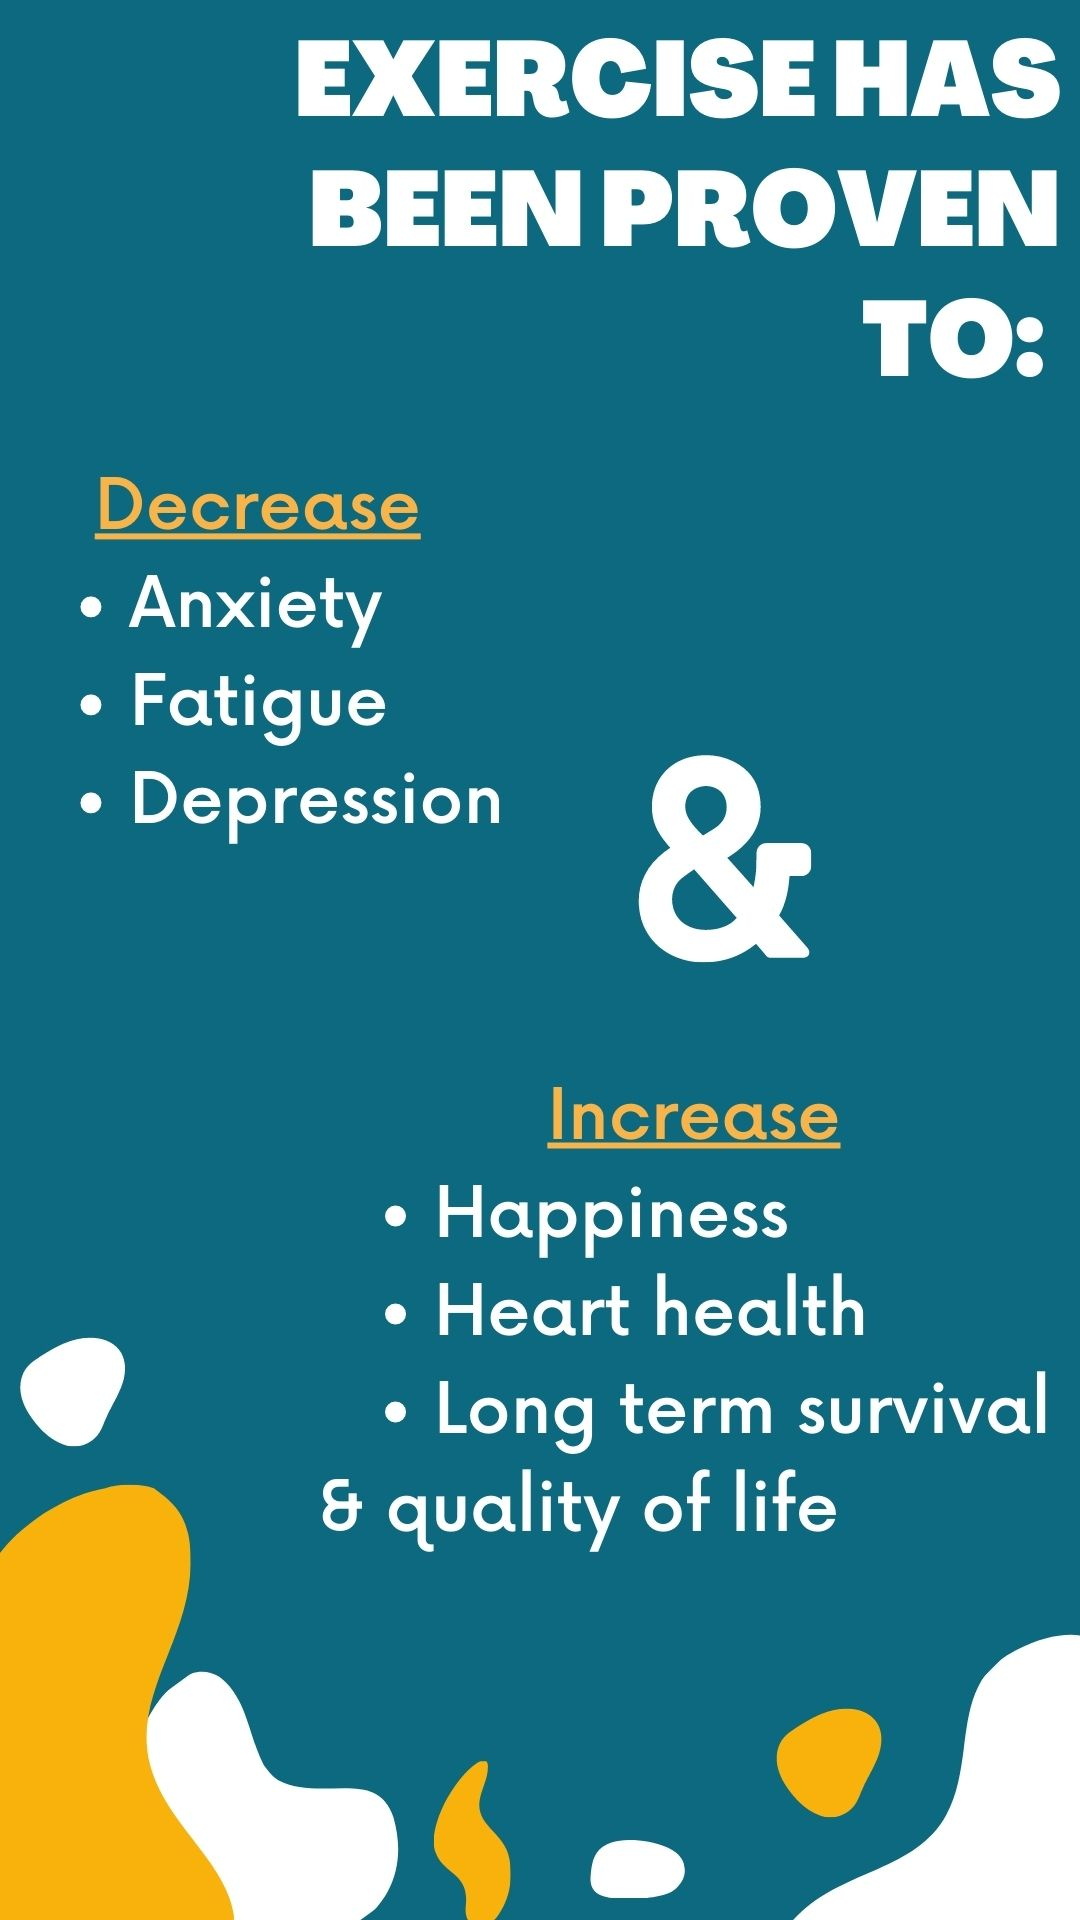
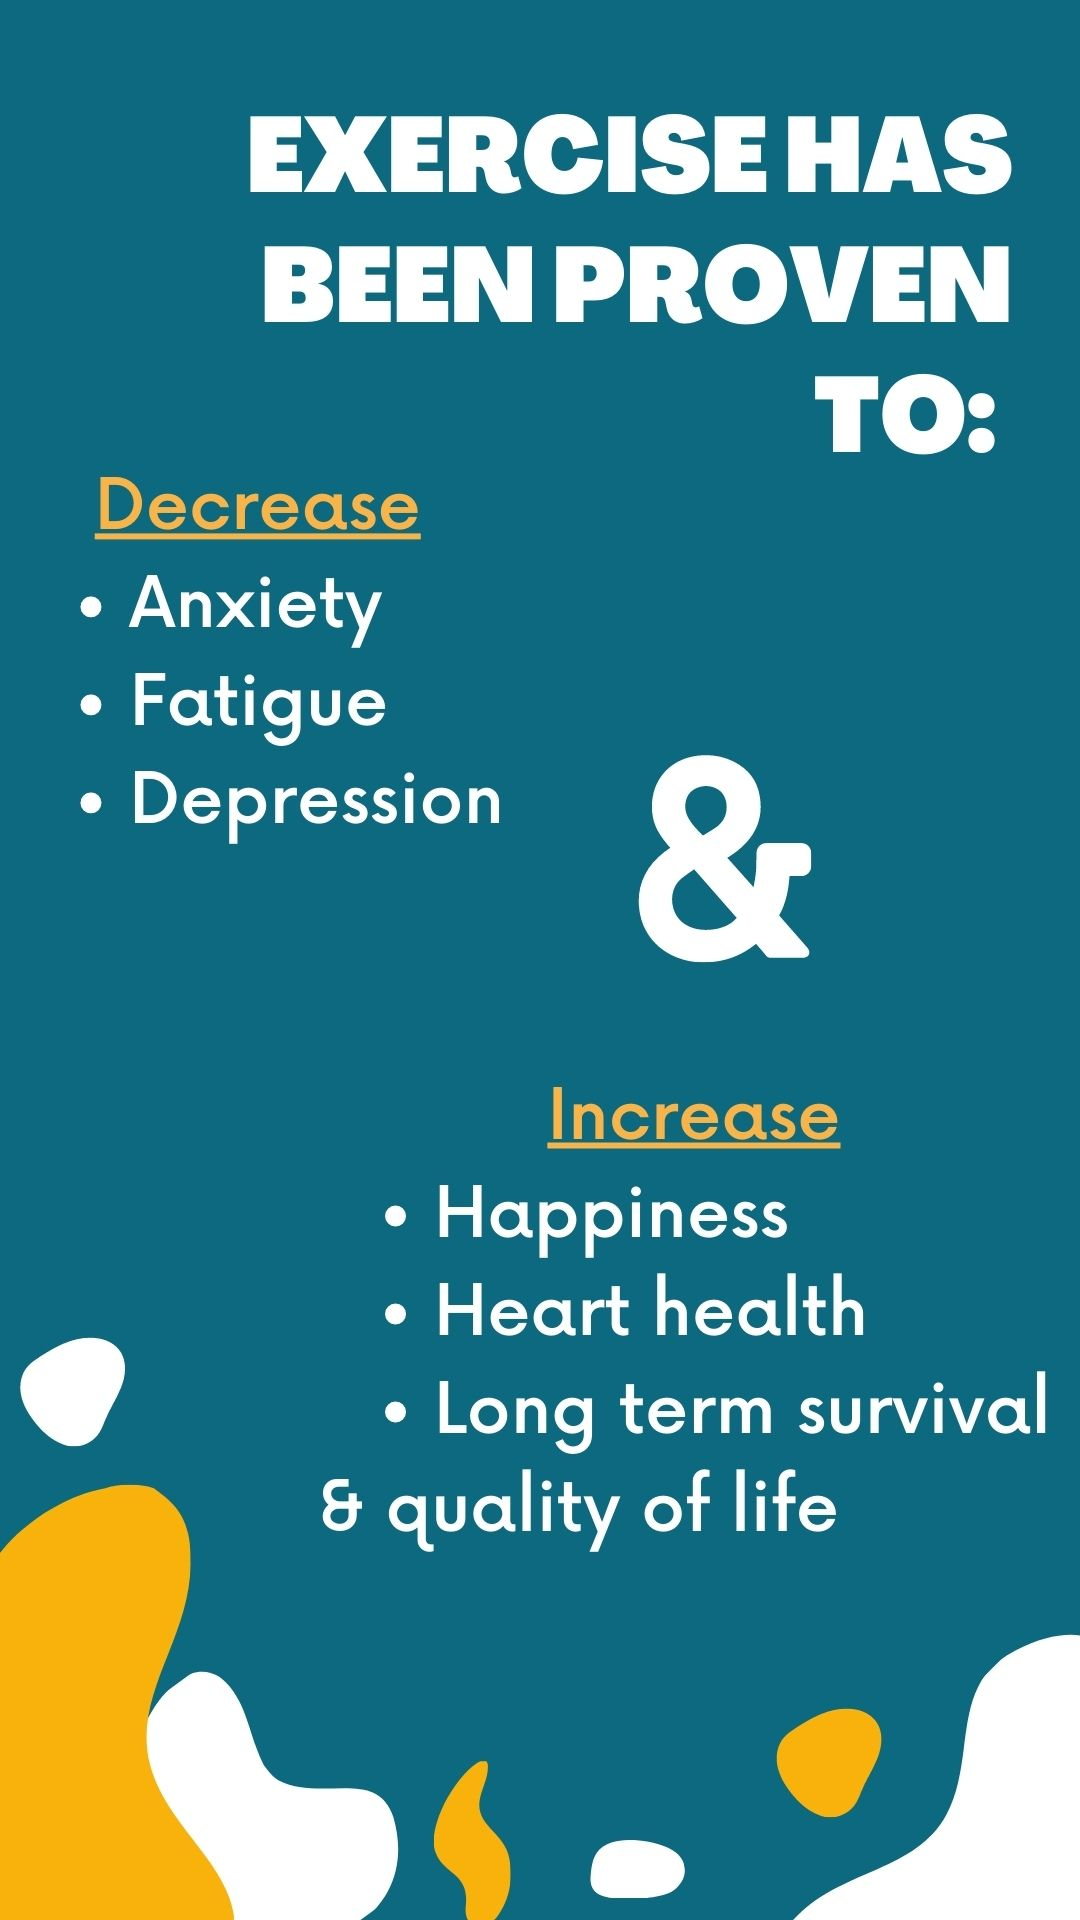
:construction:

Changed region(s): [[0.2139, 0.0, 0.9778, 0.25]]

diff --git a/src/components/Lesson.js b/src/components/Lesson.js
@@ -38,6 +38,7 @@ const BigOleCircle=styled(Circle)`
 const StoryList=styled(FlatList)`
     position:absolute;
     bottom:0;
+    color:white !important;
 `
 function Lesson(props) {
     const navigation = useNavigation(); 
@@ -50,7 +51,7 @@ function Lesson(props) {
         let exerciseStories = []
         let sectionIndex = props.lessonSections[i].index
         let sectionTitle = props.lessonSections[i].title
-        for (let j=props.lessonSections[i].index; j <= props.lessonSections[i+1].index; j++) {
+        for (let j=props.lessonSections[i].index; j < props.lessonSections[i+1].index; j++) {
             let story = {
                 story_id: j,
                 story_image: props.storyImgs[j],
@@ -85,17 +86,18 @@ function Lesson(props) {
                         return <>
                             <InstaStory data={[item]}
                                 duration={10}
-                                unPressedBorderColor={"blue"}
-                                pressedBorderColor={"green"}
+                                unPressedBorderColor={"red"}
+                                pressedBorderColor={"grey"}
                                 avatarSize={80}
                                 onStart={item => console.log('start')}
                                 onClose={item => console.log('close: ')}
+                                textStyle={{color:"white"}}
                                 customSwipeUpComponent={
                                 <View>
-                                    <Text>TEsting</Text>
+                                    <Text>Swipe Up</Text>
                                 </View>
                                 }
-                                style={{marginTop: 100, bottom:0, height:110}}
+                                style={{marginTop: 100, bottom:0, height:110,color:"white !important"}}
                             />
                         </>}}
             />                               

diff --git a/src/components/Banner.js b/src/components/Banner.js
@@ -33,7 +33,7 @@ const BigOleCircle=styled(Circle)`
     max-width:500px; 
     max-height:500px; 
     flex-direction:column;
-    margin-top:-50px;
+    margin-top:-80px;
 ` 
 function Banner(props) {
     const navigation = useNavigation();
@@ -45,20 +45,20 @@ function Banner(props) {
     const HeadTitle=styled(Center)`
         position:relative;
         margin-bottom:0px;
-        top:15px;
-        font-size:30px !important;
-        color:  ${props.fontColor} !important;
+        font-size:80px !important;
+        color: ${props.fontColor} !important;
         padding-top:0px; 
         width:100%;
     `
 //                    <Text color={props.fontColor} fontSize={23} fontFamily="Poppins" textShadow="5px 5px 5px" fontWeight="bold">{props.header}</Text>          
 
 
+
     return (<>
         <Center>
             <BackButton onPress={() => navigation.navigate("Menu")}>Back</BackButton>
             <HeadTitle>
-                {props.headerIcon? <Image style={{ width: 50, height: 50 }} source={props.headerIcon}/> : ''}
+                {props.headerIcon ? <Image style={{ width: 50, minHeight: 50, resizeMode:'contain', marginTop:-25, marginBottom:30 }} source={props.headerIcon}/> : ''}
                 <CurvedText title={props.header} color={props.fontColor} offset={props.titleOffset}/>
             </HeadTitle>
             <Flex>

diff --git a/src/components/CurvedText.js b/src/components/CurvedText.js
@@ -13,11 +13,8 @@ import {
 import Svg, { G, Text, TextPath, TSpan, Circle, Path,Defs } from 'react-native-svg';
 
 
-const CircleText=styled(View)`
-    font-size: 20px;
-    margin-top:10px;
-    text-align:center !important;
-    width:75%;
+const BigText=styled(Text)`
+    font-size: 30px;
     fontWeight:bold;
 `
 
@@ -28,17 +25,17 @@ function CurvedText(props) {
     const circleWidth = dimenWidth * 0.7; 
 
     return (<>
-<Svg position="absolute" height="200" width="600">
+<Svg position="absolute" height="150" width="600">
   <Defs>
     <Path id="path" d={"M73.2,148.6c4-6.1,65.5-96.8,178.6-95.6c111.3,1.2,170.8,90.3,175.1,97"} />
   </Defs>
-  <G x="50" y="50">
-    <Text fill={props.color}>
-      <TextPath href="#path"  startOffset={props.offset}>
+  <G x="60" y="50">
+    <Text fill={props.color} style={{fontSize:30}}>
+      <TextPath href="#path"  startOffset={props.offset} >
         {props.title}
       </TextPath>
     </Text>
-    <Path d={"M73.2,148.6c4-6.1,65.5-96.8,178.6-95.6c111.3,1.2,170.8,90.3,175.1,97"} fill="none" stroke="none" strokeWidth="1">
+    <Path d={"M73.2,148.6c4-6.1,65.5-96.8,178.6-95.6c111.3,1.2,170.8,90.3,175.1,97"} fill="none" stroke="none" strokeWidth="4">
     <Text fill={props.color}>
     {props.title}
     </Text>

diff --git a/src/components/ModuleAccordion.js b/src/components/ModuleAccordion.js
@@ -37,19 +37,17 @@ const ModuleAccordion = (props) => {
     }
     const renderAccordion = (item) => {
       return(<>
-      <View >
-      <ScrollView style={styles.innerAccordion} contentContainerStyle={{ flexGrow: 1 }}>
+      <ScrollView style={styles.innerAccordion} contentContainerStyle={{ flexGrow: 1 }} nestedScrollEnabled={true}>
           {item.content.map((img,i) => {
             return <Image key={i} source={img} style={styles.image}/>
           })}
         </ScrollView>
-      </View>
 
       </>)
     }
 
     return (<>
-    <ScrollView>
+    <ScrollView h={dimenHeight} contentContainerStyle={{flexGrow: 1}}>
     <Accordion activeSections={activeSections}
         sections={dataArray}
         renderHeader={renderAccordionHeader}
@@ -72,7 +70,8 @@ const accordionStyles = (width, height) => StyleSheet.create({
       minWidth:100,
   },
   innerAccordion: {
-    height:height-150
+    height:height-150,
+    flexGrow:1
   }
 });
 

diff --git a/App.js b/App.js
@@ -254,6 +254,7 @@ function AppFlow(props) {
         <Drawer.Screen name="Side Effect Management" component={SymptomScreen} />
         <Drawer.Screen name="Med Management" component={MedScreen} />
         <Drawer.Screen name="Exercises" component={StretchTutorialsScreen}/>
+        <Drawer.Screen name="Stretching" component={StretchTutorialsScreen}/>
     </Drawer.Navigator>
   </Box>
   )

diff --git a/src/screens/lessons/exercise.screen.js b/src/screens/lessons/exercise.screen.js
@@ -5,8 +5,7 @@ import storyImgs, { sections, slides } from "./stories/exercise.stories";
 import styled from 'styled-components/native'
 import Lesson from "../../components/Lesson";
 import Banner from "../../components/Banner";
-
-const blue = "#1f628e"; 
+import { blue } from '../../helpers/colors'
 
 const BlueView=styled(VStack)`
     background-color: ${blue};
